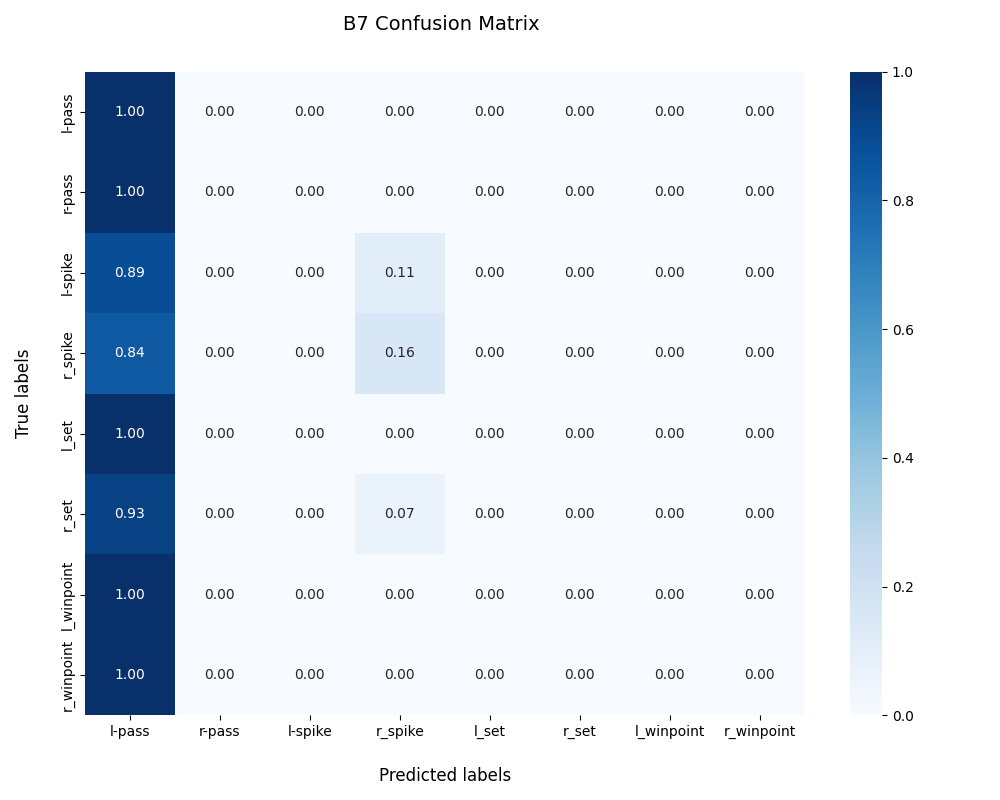
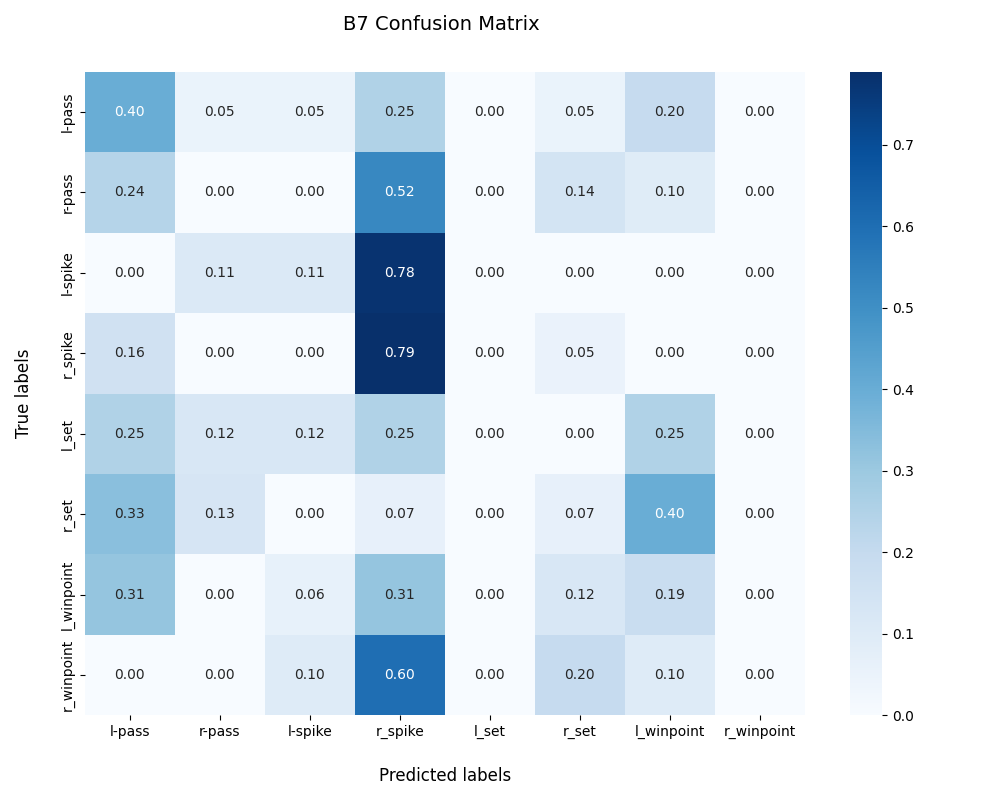
change player data agumenations

diff --git a/models/b8.py b/models/b8.py
@@ -5,20 +5,17 @@ import torchvision.models as models
 class B8(nn.Module):
     def __init__(self,backbone,n_group_actions):
         super(B8,self).__init__()
-        #B3 player
         self.backbone=backbone.backbone
-        for child in list(self.backbone.children())[:7]:
-            for param in child.parameters():
-                param.requires_grad = False
         self.lstm1=backbone.lstm
-        #describe each player with resnet vis + temporal describe 
-        self.res_vis = nn.Sequential(
-            nn.Linear(2048, 512),
-            nn.BatchNorm1d(512), # Normalizes the scale to match LSTM1
-            nn.ReLU(),          
-            nn.Dropout(0.3)      
-        )
-        self.lstm2=nn.LSTM(input_size=1024+1024,hidden_size=512,num_layers=1,batch_first=True)
+
+        for param in self.backbone.parameters():
+            param.requires_grad = False
+        for param in self.lstm1.parameters():
+            param.requires_grad = False
+        
+        self.vis_norm=nn.LayerNorm(2048)
+
+        self.lstm2=nn.LSTM(input_size=5120,hidden_size=512,num_layers=1,batch_first=True)
         self.classifier=nn.Sequential(
             nn.Linear(512,128),
             nn.ReLU(),
@@ -30,22 +27,23 @@ class B8(nn.Module):
         # B,9,12,C,W,H
         B,F,P,C,W,H = X.shape
         X=X.view(B*F*P,C,W,H)
-        X=self.backbone(X) #B*F*P,2048,1,1
-        X=X.view(B,F,P,2048)
-        X=X.permute(0,2,1,3).contiguous() #B,P,F,2048
-        
-        out_temp,(h,c)=self.lstm1(X.view(B*P,F,2048)) #B*P,F,512
-        out_temp=out_temp.view(B,P,F,512)
-        
+        with torch.no_grad():
+            X=self.backbone(X) #B*F*P,2048,1,1
+            X=X.view(B,F,P,2048)
+            X=X.permute(0,2,1,3).contiguous() #B,P,F,2048
+            
+            out_temp,(h,c)=self.lstm1(X.view(B*P,F,2048)) #B*P,F,512
+            out_temp=out_temp.view(B,P,F,512)
+            
         # static vis for each person from resnet + temporal 
-        out_vis=self.res_vis(X.view(-1,2048)).view(B,P,F,512) #B,P,F,512
-        # X(B,P,F,512) out(B,P,F,512) 
-        combined=torch.concat((out_vis,out_temp),dim=-1) #B,P,F,512+512
+        out_vis=self.vis_norm(X.view(-1,2048)).view(B,P,F,2048) #B,P,F,2048
+        # X(B,P,F,2048) out(B,P,F,512) 
+        combined=torch.concat((out_vis,out_temp),dim=-1) #B,P,F,2048+512
 
-        out_t1,_=combined[:,:6,:,:].max(dim=1) #B,F,1024
-        out_t2,_=combined[:,6:,:,:].max(dim=1) #B,F,1024
+        out_t1,_=combined[:,:6,:,:].max(dim=1) #B,F,2560
+        out_t2,_=combined[:,6:,:,:].max(dim=1) #B,F,2560
 
-        out=torch.concat((out_t1,out_t2),dim=2) #B,F,1024+1024
+        out=torch.concat((out_t1,out_t2),dim=2) #B,F,2560+2560
 
         out,(h,c)=self.lstm2(out) #B,F,512
         out=out[:,-1,:] #B,512

diff --git a/utils/person_level_dataset.py b/utils/person_level_dataset.py
@@ -11,18 +11,28 @@ class VolleyballPersonDataset(BaseDataset):
         self.player_label=player_label
         self.train=train
         self.train_transform = transforms.Compose([
-            # 1. Flip: A spike is a spike regardless of direction
+            # 1. Flip(player): A spike is a spike regardless of direction
             # comment flip in group classifier
             # transforms.RandomHorizontalFlip(p=0.5),
+
             # 2. Color: Handle different jersey colors and gym lighting
             transforms.ColorJitter(brightness=0.3, contrast=0.3, saturation=0.2),
-            # 3. Standardization (Invariant)
+            
+            # 3. Perspective: Simulates different viewing angles from the stadium
+            transforms.RandomPerspective(distortion_scale=0.2, p=0.5),
+
+            # 4. Blur: Handle fast motion tracking of the ball/play
+            transforms.GaussianBlur(kernel_size=(3, 3), sigma=(0.1, 2.0)),
+
+            # 5. Standardization (Invariant)
             transforms.Resize((224, 224)),
             transforms.ToTensor(),
-            # 4. Occlusion: Handle players blocking each other
+
+            # 6 Occlusion (player): Handle players blocking each other
             # Note: RandomErasing must come AFTER ToTensor
             # transforms.RandomErasing(p=0.3, scale=(0.02, 0.2), ratio=(0.3, 3.3)),
-            # 5. Normalization (Invariant)
+            
+            # 7. Normalization (Invariant)
             transforms.Normalize(mean=[0.485, 0.456, 0.406], std=[0.229, 0.224, 0.225]),
         ])
         self.val_transform = transforms.Compose([
@@ -48,9 +58,6 @@ class VolleyballPersonDataset(BaseDataset):
         frames=[]
         categories=[]
         seed = random.randint(0,2**16)
-        # seed over the whole clip
-        random.seed(seed)
-        torch.manual_seed(seed)
         def crop_fun(video_id,clip_id,frame_id,frame_boxes):
             img_path = os.path.join(self.videos_root,video_id,clip_id,f'{str(frame_id)}.jpg')
             img = Image.open(img_path).convert('RGB')
@@ -60,7 +67,9 @@ class VolleyballPersonDataset(BaseDataset):
             for ind,box in enumerate(frame_boxes):
                 x1, y1, x2, y2 = box.box
                 crop=img.crop((x1, y1, x2, y2))
-                
+                # same seed for each player 
+                random.seed(seed)
+                torch.manual_seed(seed)
                 if self.train:
                     crop=self.train_transform(crop)
                 else:

diff --git a/models/b7.py b/models/b7.py
@@ -5,19 +5,25 @@ import torchvision.models as models
 class B7(nn.Module):
     def __init__(self,backbone,n_group_actions):
         super(B7,self).__init__()
-        #B3 player
+
         self.backbone=backbone.backbone
-        for child in list(self.backbone.children())[:7]:
-            for param in child.parameters():
-                param.requires_grad = False
         self.lstm1=backbone.lstm
-       
-        self.lstm2=nn.LSTM(input_size=512+512,hidden_size=512,num_layers=1,batch_first=True)
+        for param in self.backbone.parameters():
+            param.requires_grad = False
+        for param in self.lstm1.parameters():
+            param.requires_grad = False
+
+        self.lstm2=nn.LSTM(input_size=512,hidden_size=512,num_layers=1,batch_first=True)
         self.classifier=nn.Sequential(
-            nn.Linear(512,128),
+            nn.Linear(512, 256),
+            nn.BatchNorm1d(256),
             nn.ReLU(),
             nn.Dropout(0.5),
-            nn.Linear(128,n_group_actions)
+            nn.Linear(256, 128),
+            nn.BatchNorm1d(128),
+            nn.ReLU(),
+            nn.Dropout(0.5),
+            nn.Linear(128, n_group_actions)
         )
 
     def forward(self,X):
@@ -31,10 +37,7 @@ class B7(nn.Module):
         out,(h,c)=self.lstm1(X.view(B*P,F,2048)) #B*P,F,512
         out=out.view(B,P,F,512)
         
-        out_t1,_=out[:,:6,:,:].max(dim=1) #B,F,512
-        out_t2,_=out[:,6:,:,:].max(dim=1) #B,F,512
-
-        out=torch.concat((out_t1,out_t2),dim=2) #B,F,512+512
+        out,_=out.max(dim=1) #B,F,512
 
         out,(h,c)=self.lstm2(out) #B,F,512
         out=out[:,-1,:] #B,512

diff --git a/train/b8_train.py b/train/b8_train.py
@@ -66,10 +66,10 @@ model=B8(backbone_outer,num_group_actions)
 model=model.to(device)
 criterion = nn.CrossEntropyLoss()
 
-expert_params =list(model.lstm1.parameters())
+#expert_params =list(model.lstm1.parameters())
 new_params = list(model.lstm2.parameters()) + list(model.res_vis.parameters()) +list(model.classifier.parameters())
 optimizer = torch.optim.AdamW([
-    {'params': filter(lambda p: p.requires_grad, expert_params), 'lr': lr1}, 
+  #  {'params': filter(lambda p: p.requires_grad, expert_params), 'lr': lr1}, 
     {'params': new_params, 'lr': lr2} 
 ])
 scheduler = torch.optim.lr_scheduler.ReduceLROnPlateau(optimizer, mode=conf_dict['scheduler']['mode'], factor=conf_dict['scheduler']['factor'], patience=conf_dict['scheduler']['patience'])

diff --git a/train/b7_train.py b/train/b7_train.py
@@ -66,12 +66,7 @@ model=B7(backbone_outer,num_group_actions)
 model=model.to(device)
 criterion = nn.CrossEntropyLoss()
 
-expert_params = list(model.backbone.parameters()) + list(model.lstm1.parameters())
-new_params = list(model.lstm2.parameters()) + list(model.classifier.parameters())
-optimizer = torch.optim.AdamW([
-    {'params': filter(lambda p: p.requires_grad, expert_params), 'lr': lr1}, 
-    {'params': new_params, 'lr': lr2} 
-])
+optimizer = torch.optim.AdamW(filter(lambda p: p.requires_grad, model.parameters()),lr= lr1)
 scheduler = torch.optim.lr_scheduler.ReduceLROnPlateau(optimizer, mode=conf_dict['scheduler']['mode'], factor=conf_dict['scheduler']['factor'], patience=conf_dict['scheduler']['patience'])
 
 #  Kaggle use 2 GPU   

diff --git a/utils/logger.py b/utils/logger.py
@@ -6,7 +6,7 @@ def setup_logger(output_path):
     log_format = logging.Formatter('%(asctime)s | [%(filename)s] | %(levelname)s: %(message)s', '%H:%M:%S')
     
     root = logging.getLogger()
-    root.setLevel(logging.debug)
+    root.setLevel(logging.INFO)
 
     # Console Output
     console = logging.StreamHandler()
